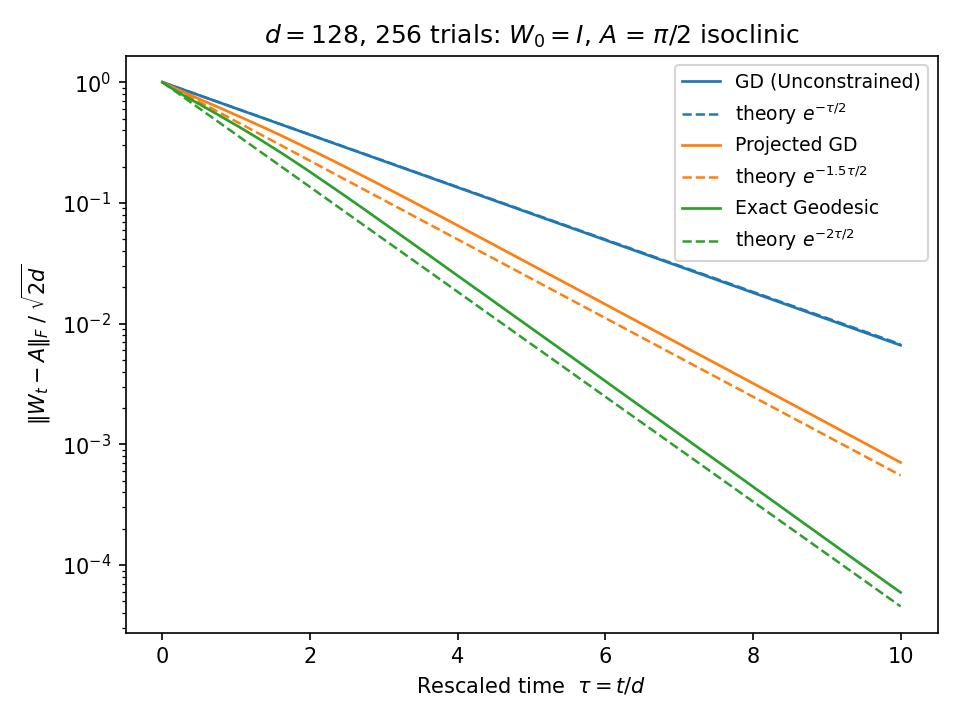
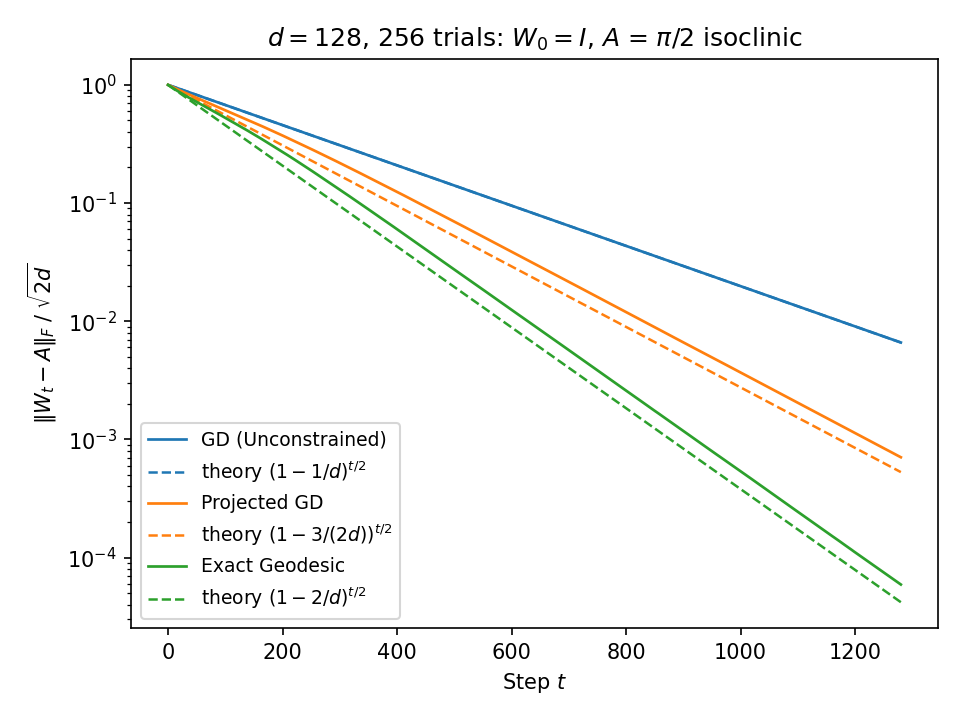
Use per-step contraction (1 - c/d) consistently in report, plot, and legend

diff --git a/large_d_collapse.py b/large_d_collapse.py
@@ -1,9 +1,9 @@
-"""Large-d regime at d = 128: normalized error vs rescaled time tau = t/d.
+"""Convergence of the three rotation-learning updates at d = 128.
 
-The per-step contraction (1 - c/d) of E||W - A||_F^2 becomes exp(-c tau) in
-rescaled time, so Frobenius distance follows exp(-c tau / 2) with c = 1 (GD),
-3/2 (projected GD), 2 (exact geodesic).
-W_0 = I, A = pi/2 isoclinic; initial distance is sqrt(2d), divided out.
+E||W - A||_F^2 contracts by (1 - c/d) per step with c = 1 (GD), 3/2
+(projected GD), 2 (exact geodesic), so Frobenius distance follows
+(1 - c/d)^(t/2). W_0 = I, A = pi/2 isoclinic; initial distance is
+sqrt(2d), divided out.
 
 Fast path (no SVD): every update is a rank-<=2 correction of W, O(trials*d^2)
 per step. For W in SO(d) the polar projection of the GD step W + r x^T has a
@@ -23,7 +23,8 @@ LABELS = {"gd": "GD (Unconstrained)", "pgd": "Projected GD", "geo": "Exact Geode
 COLORS = {"gd": "tab:blue", "pgd": "tab:orange", "geo": "tab:green"}
 D = 128
 TRIALS = 256
-TAU_MAX = 10.0
+STEPS = 1280
+RATE_TEX = {"gd": "1 - 1/d", "pgd": "1 - 3/(2d)", "geo": "1 - 2/d"}
 
 
 def aligned_isoclinic(n, theta):
@@ -169,23 +170,20 @@ if __name__ == "__main__":
     import matplotlib.pyplot as plt
 
     workers = os.cpu_count()//2
-    steps = int(TAU_MAX * D)
     t0 = time.perf_counter()
     with mp.get_context("spawn").Pool(workers) as pool:
-        dist, drift = simulate_fast(D, TRIALS, steps, pool=pool, nchunks=workers)
-    print(f"d={D} ({TRIALS} trials, {steps} steps, {workers} workers): "
+        dist, drift = simulate_fast(D, TRIALS, STEPS, pool=pool, nchunks=workers)
+    print(f"d={D} ({TRIALS} trials, {STEPS} steps, {workers} workers): "
           f"{time.perf_counter() - t0:.1f}s | orthogonality drift {drift:.1e}")
 
-    tau = np.arange(steps + 1) / D
-    tau_th = np.linspace(0, TAU_MAX, 200)
+    t = np.arange(STEPS + 1)
     for m, c in THEORY_C.items():
-        plt.semilogy(tau, dist[m] / dist[m][0], color=COLORS[m], lw=1.3,
+        plt.semilogy(t, dist[m] / dist[m][0], color=COLORS[m], lw=1.3,
                      label=LABELS[m])
-        exponent = r"\tau/2" if c == 1 else rf"{c:g}\tau/2"
-        plt.semilogy(tau_th, np.exp(-c * tau_th / 2), "--", color=COLORS[m],
-                     lw=1.2, label=rf"theory $e^{{-{exponent}}}$")
+        plt.semilogy(t, (1 - c / D) ** (t / 2), "--", color=COLORS[m],
+                     lw=1.2, label=rf"theory $({RATE_TEX[m]})^{{t/2}}$")
     plt.legend(fontsize=9)
-    plt.xlabel(r"Rescaled time  $\tau = t/d$")
+    plt.xlabel(r"Step $t$")
     plt.ylabel(r"$\|W_t - A\|_F \;/\; \sqrt{2d}$")
     plt.title(rf"$d = {D}$, {TRIALS} trials: $W_0 = I$, $A$ = $\pi/2$ isoclinic")
     plt.tight_layout()

diff --git a/README.md b/README.md
@@ -30,7 +30,7 @@ The same step, snapped back to the nearest rotation. The projection keeps only t
 W \leftarrow R W, \qquad R = I + K + \frac{K^2}{1 + c}, \qquad K = y u^\top - u y^\top, \quad u = Wx, \quad c = u \cdot y
 ```
 
-$R$ is the geodesic rotation carrying $Wx$ exactly onto $y$: the full angle, never leaving $SO(d)$. Near the target the skew error contracts two-sidedly, $\Omega \mapsto (I - P) \Omega (I - P)$ with $P = yy^\top$, doubling the exponent. Contraction: $1 - 2/d$.
+$R$ is the geodesic rotation carrying $Wx$ exactly onto $y$: the full angle, never leaving $SO(d)$. Near the target the skew error contracts two-sidedly, $\Omega \mapsto (I - P) \Omega (I - P)$ with $P = yy^\top$, doubling the contraction. Per step: $1 - 2/d$.
 
 ## Result
 
@@ -40,7 +40,7 @@ $R$ is the geodesic rotation carrying $Wx$ exactly onto $y$: the full angle, nev
 | GD + projection | orthogonality | $1 - 3/(2d)$ |
 | Geodesic | orthogonality | $1 - 2/d$ |
 
-The rates sit in ratio **1 : 1.5 : 2** — exploiting the constraint doubles the convergence exponent, and projecting recovers exactly half of that gain. Convergence costs $O(d)$ samples per constant factor, so on the natural clock $\tau = t/d$ the distance falls as $e^{-c\tau/2}$:
+The rates sit in ratio **1 : 1.5 : 2** — exploiting the constraint doubles the per-step contraction, and projecting recovers exactly half of that gain. After $t$ steps the distance has fallen by $(1 - c/d)^{t/2}$, so each constant factor of error reduction costs $O(d)$ samples:
 
 ![Convergence of the three updates at d = 128 against theory](large_d_collapse.png)
 
